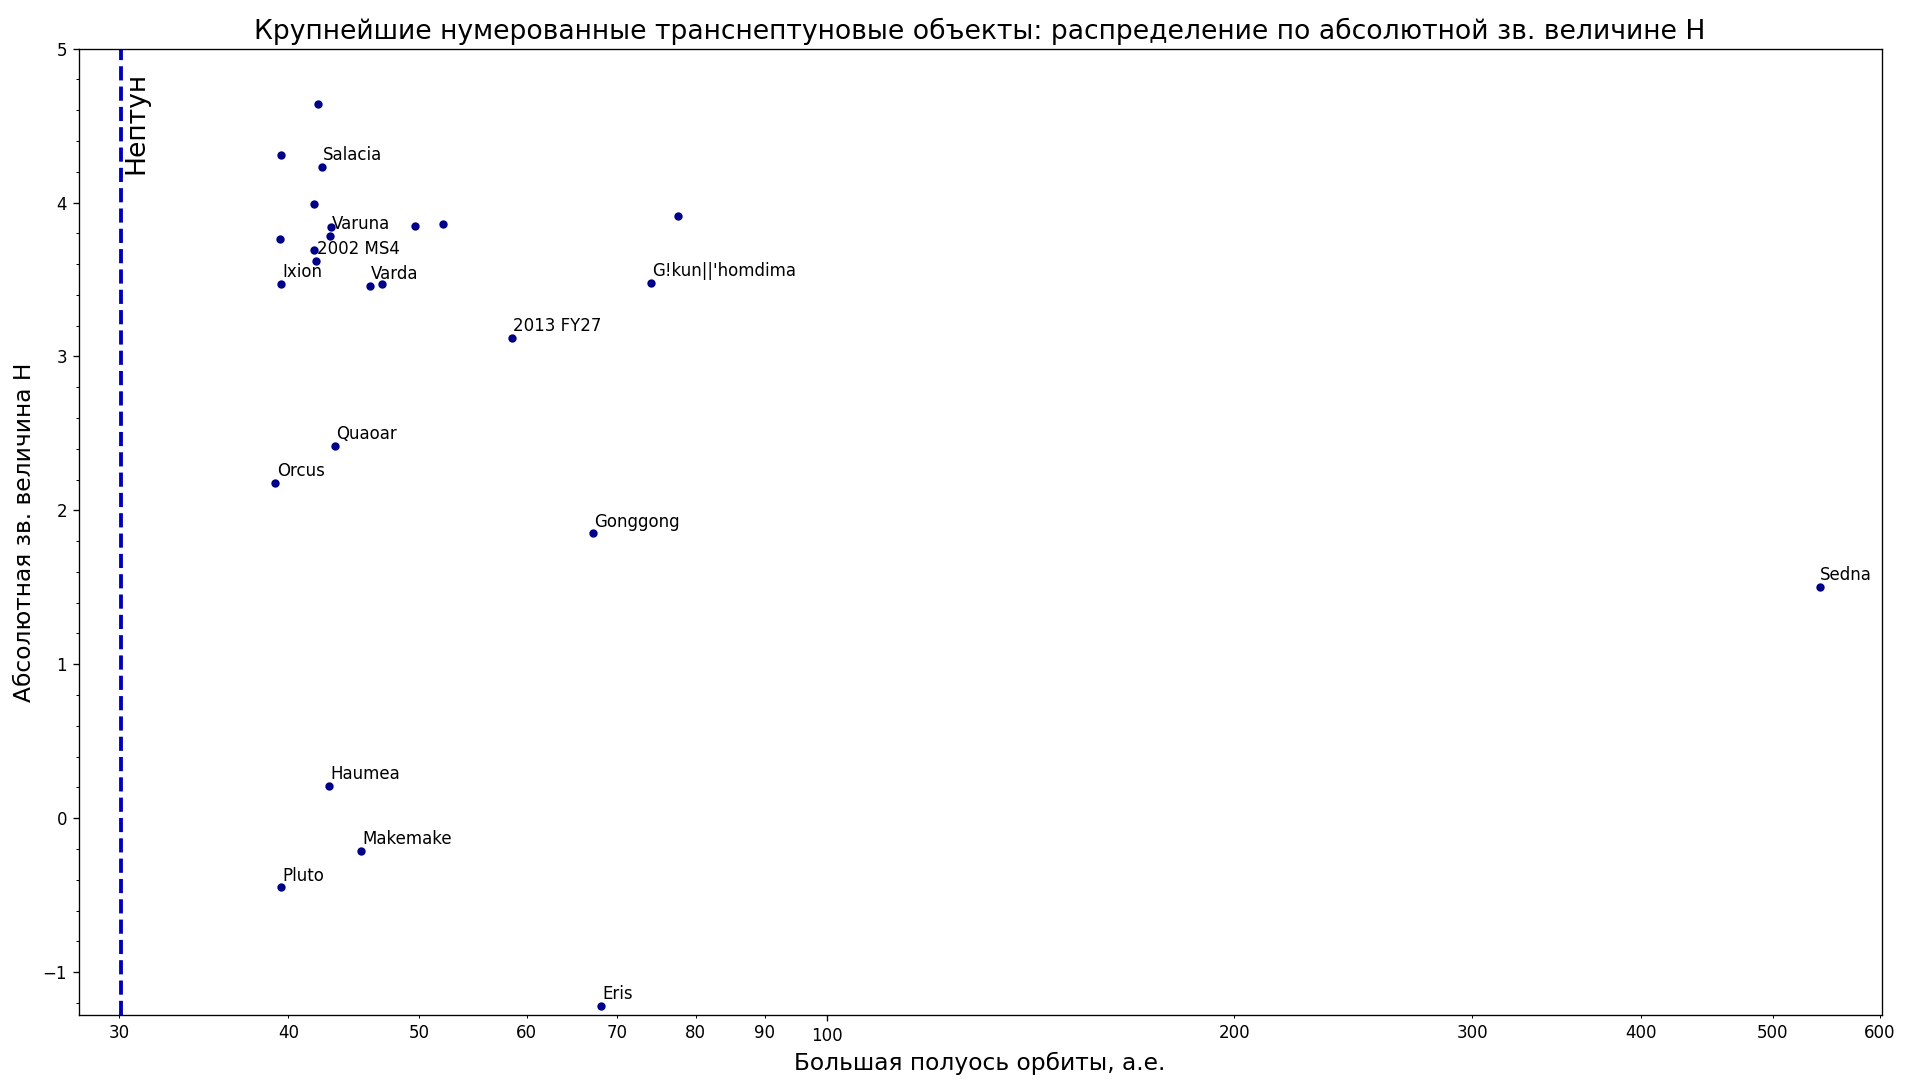
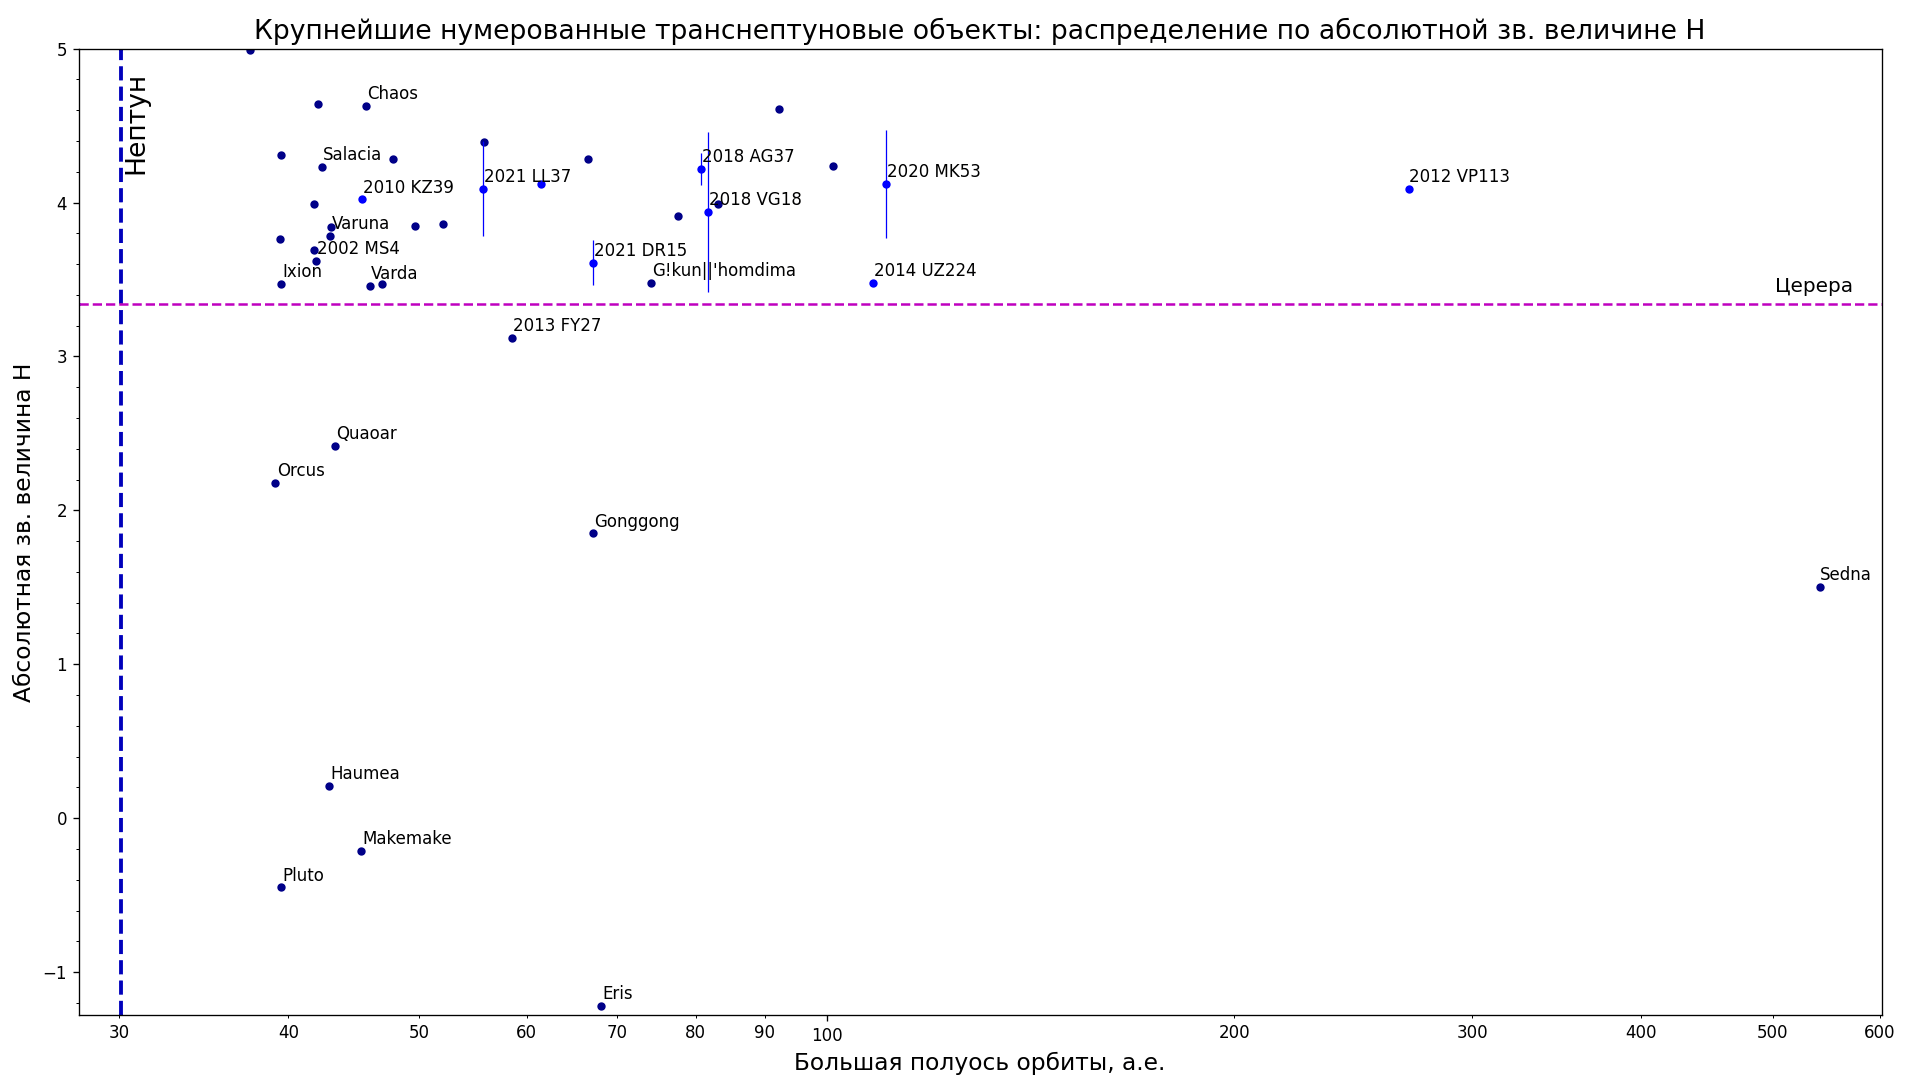
add more data of numbered/unnumbered TNOs

diff --git a/src/astrodata/solarsystem/README-ru.md b/src/astrodata/solarsystem/README-ru.md
@@ -20,8 +20,9 @@
 Источник данных: [IAU Minor Planet Center, The MPC Orbit (MPCORB) Database](https://minorplanetcenter.net/iau/MPCORB.html),
 [Статистика открытий любителей и профессионалов по годам](https://minorplanetcenter.net/iau/special/AmateurDiscoveries.txt)  
 Код: [python script for plotting histograms with the distribution of Solar system objects along the semimajor axis](./plot_mpcorb_hist.py)
-* Распределение крупнейших нумерованных транснептуновых объектов по абсолютной зв. величине H
-![Распределение крупнейших нумерованных транснептуновых объектов по абсолютной зв. величине H](../../../plots/solarsystem/tno-a-h-ru.png "Распределение крупнейших нумерованных транснептуновых объектов по большой полуоси и абсолютной зв. величине H")
+* Распределение крупнейших транснептуновых объектов по абсолютной зв. величине H
+![Распределение крупнейших нумерованных и ненумерованных транснептуновых объектов по абсолютной зв. величине H](../../../plots/solarsystem/tno-a-h-ru.png "Распределение крупнейших нумерованных и ненумерованных транснептуновых объектов по большой полуоси и абсолютной зв. величине H")
+См. также [версию только для нумерованных транснептуновых объектов](../../../plots/solarsystem/tno-a-h-numbered-ru.png).  
 Данные: [данные MPC Web Service в формате JSON](../../../data/solarsystem/tno-largest.json).
 Для получения параметров ненумерованных транснептуновых объектов см. [поиск в базе данных MPC](https://minorplanetcenter.net/db_search)  
 Код: см. [MPC Web Service, mpc-fetch.py](https://minorplanetcenter.net/web_service/)

diff --git a/plots/solarsystem/README-ru.md b/plots/solarsystem/README-ru.md
@@ -20,8 +20,9 @@
 Источник данных: [IAU Minor Planet Center, The MPC Orbit (MPCORB) Database](https://minorplanetcenter.net/iau/MPCORB.html),
 [Статистика открытий любителей и профессионалов по годам](https://minorplanetcenter.net/iau/special/AmateurDiscoveries.txt)  
 Код: [python script for plotting histograms with the distribution of Solar system objects along the semimajor axis](../../src/astrodata/solarsystem/plot_mpcorb_hist.py)
-* Распределение крупнейших нумерованных транснептуновых объектов по абсолютной зв. величине H
-![Распределение крупнейших нумерованных транснептуновых объектов по абсолютной зв. величине H](./tno-a-h-ru.png "Распределение крупнейших нумерованных транснептуновых объектов по большой полуоси и абсолютной зв. величине H")
+* Распределение крупнейших транснептуновых объектов по абсолютной зв. величине H
+![Распределение крупнейших нумерованных и ненумерованных транснептуновых объектов по абсолютной зв. величине H](./tno-a-h-ru.png "Распределение крупнейших нумерованных и ненумерованных транснептуновых объектов по большой полуоси и абсолютной зв. величине H")
+См. также [версию только для нумерованных транснептуновых объектов](./tno-a-h-numbered-ru.png).  
 Данные: [данные MPC Web Service в формате JSON](../../data/solarsystem/tno-largest.json).
 Для получения параметров ненумерованных транснептуновых объектов см. [поиск в базе данных MPC](https://minorplanetcenter.net/db_search)  
 Код: см. [MPC Web Service, mpc-fetch.py](https://minorplanetcenter.net/web_service/)

diff --git a/src/astrodata/solarsystem/README.md b/src/astrodata/solarsystem/README.md
@@ -20,8 +20,9 @@ Code: [python script for plotting a chart with close asteroid approaches](./plot
 Data source: [IAU Minor Planet Center, The MPC Orbit (MPCORB) Database](https://minorplanetcenter.net/iau/MPCORB.html),
 [break down of amateur discoveries](https://minorplanetcenter.net/iau/special/AmateurDiscoveries.txt)  
 Code: [python script for plotting histograms with the distribution of Solar system objects along the semimajor axis](./plot_mpcorb_hist.py)
-* Distribution of largest numbered trans-Neptunian objects by absolute magnitude H
-![Distribution of largest numbered trans-Neptunian objects by absolute magnitude H](../../../plots/solarsystem/tno-a-h-ru.png "Distribution of largest numbered trans-Neptunian objects by semi-major axis and absolute magnitude H")
+* Distribution of largest trans-Neptunian objects by absolute magnitude H
+![Distribution of largest numbered and unnumbered trans-Neptunian objects by absolute magnitude H](../../../plots/solarsystem/tno-a-h-ru.png "Distribution of largest numbered and unnumbered trans-Neptunian objects by semi-major axis and absolute magnitude H")
+See [version for only numbered trans-Neptunian objects](./tno-a-h-numbered-ru.png).  
 Data: [MPC Web Service output as JSON file](../../../data/solarsystem/tno-largest.json).
 For parameters of unnumbered trans-Neptunian objects see [MPC Database Search](https://minorplanetcenter.net/db_search)  
 Code: see [MPC Web Service, mpc-fetch.py](https://minorplanetcenter.net/web_service/)

diff --git a/plots/solarsystem/README.md b/plots/solarsystem/README.md
@@ -20,8 +20,9 @@ Code: [python script for plotting a chart with close asteroid approaches](../../
 Data source: [IAU Minor Planet Center, The MPC Orbit (MPCORB) Database](https://minorplanetcenter.net/iau/MPCORB.html),
 [break down of amateur discoveries](https://minorplanetcenter.net/iau/special/AmateurDiscoveries.txt)  
 Code: [python script for plotting histograms with the distribution of Solar system objects along the semimajor axis](../../src/astrodata/solarsystem/plot_mpcorb_hist.py)
-* Distribution of largest numbered trans-Neptunian objects by absolute magnitude H
-![Distribution of largest numbered trans-Neptunian objects by absolute magnitude H](./tno-a-h-ru.png "Distribution of largest numbered trans-Neptunian objects by semi-major axis and absolute magnitude H")
+* Distribution of largest trans-Neptunian objects by absolute magnitude H
+![Distribution of largest numbered and unnumbered trans-Neptunian objects by absolute magnitude H](./tno-a-h-ru.png "Distribution of largest numbered and unnumbered trans-Neptunian objects by semi-major axis and absolute magnitude H")
+See [version for only numbered trans-Neptunian objects](./tno-a-h-numbered-ru.png).  
 Data: [MPC Web Service output as JSON file](../../data/solarsystem/tno-largest.json).
 For parameters of unnumbered trans-Neptunian objects see [MPC Database Search](https://minorplanetcenter.net/db_search)  
 Code: see [MPC Web Service, mpc-fetch.py](https://minorplanetcenter.net/web_service/)
